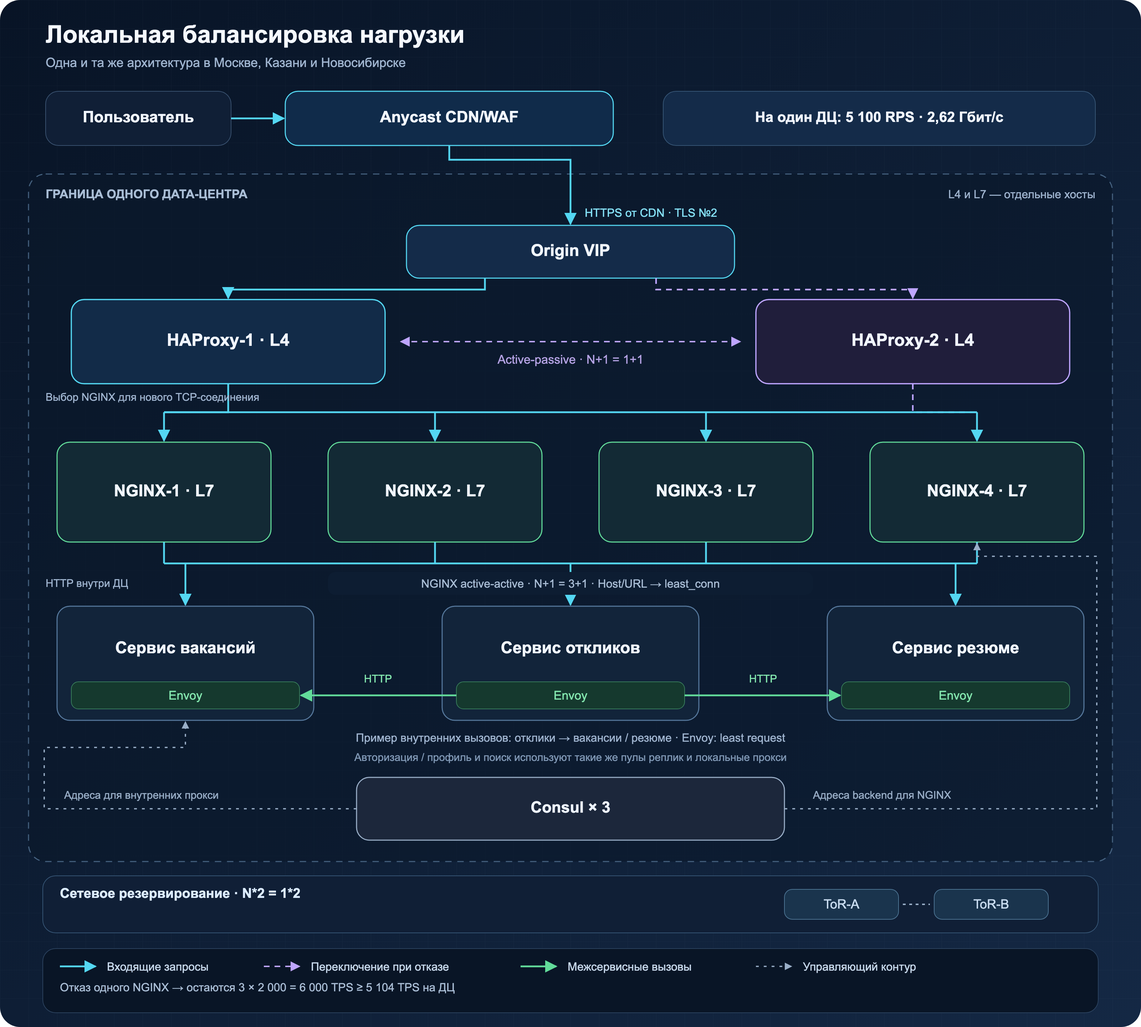
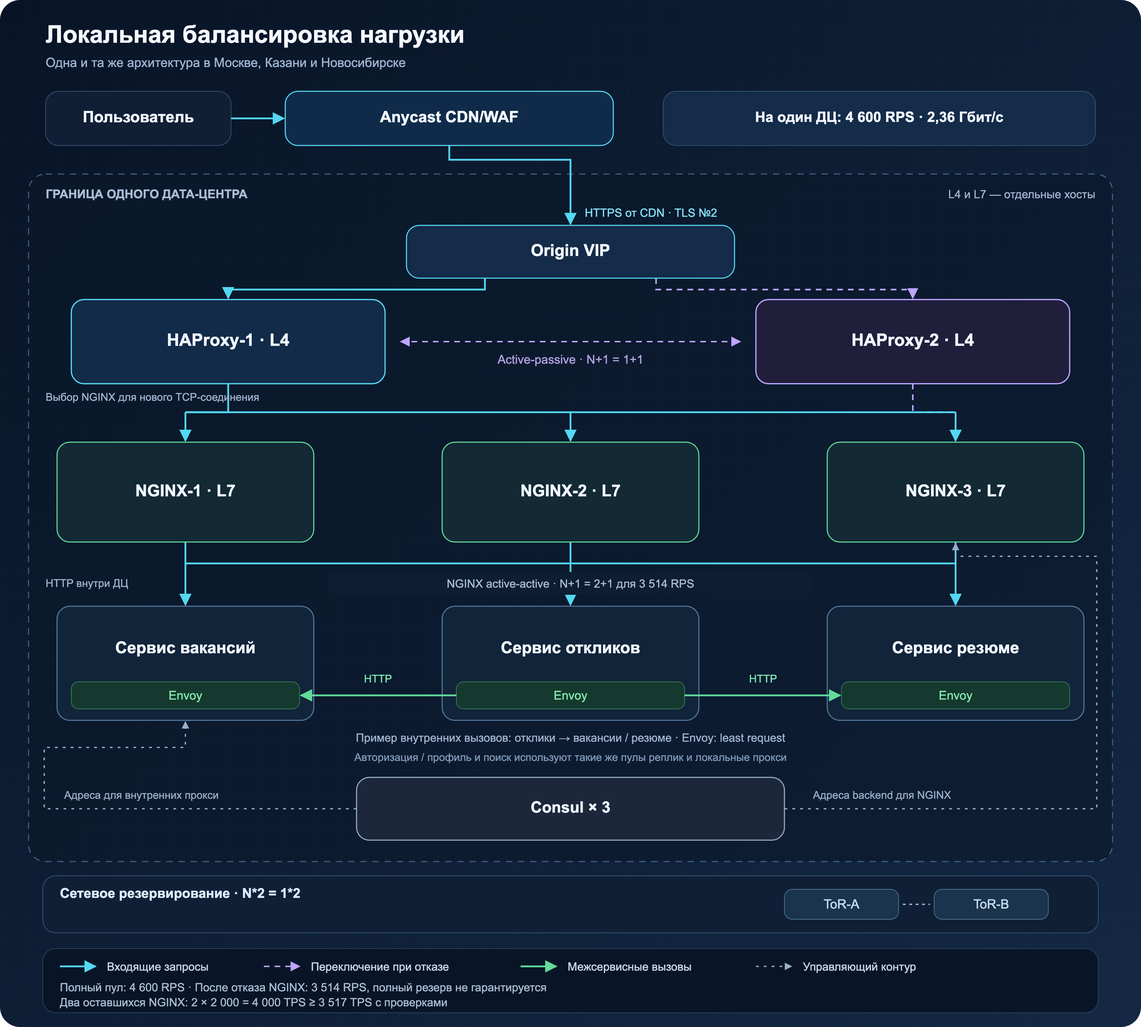
fix

diff --git a/README.md b/README.md
@@ -307,16 +307,16 @@ RPS каждого оставшегося ДЦ = расчётный RPS пико
 |---|---:|---:|---:|---:|---:|
 | Среднесуточный RPS | 1 463,20 | 497,49 | 482,85 | 482,85 | 731,60 |
 | Расчётный RPS пикового часа | 7 028 | 2 389,52 | 2 319,24 | 2 319,24 | 3 514 |
-| Целевая мощность по запросам, RPS | 15 300 | 5 100 | 5 100 | 5 100 | 5 100 |
+| Целевая мощность по запросам, RPS | 13 800 | 4 600 | 4 600 | 4 600 | 4 600 |
 | Пропускная способность пикового часа с запасом | 3,60 Гбит/с | 1,23 Гбит/с | 1,19 Гбит/с | 1,19 Гбит/с | 1,80 Гбит/с |
 
-Каждый ДЦ должен выдерживать минимум 50% суммарной расчётной нагрузки: `7 028 × 0,5 = 3 514 RPS`. Сверх этой аварийной нагрузки принят проектный резерв не менее `1 500 RPS` на площадку для отклонений от расчётной модели и кратковременных всплесков. Минимальное требование с резервом составляет `3 514 + 1 500 = 5 014 RPS`; оно округляется вверх до ближайшей сотни: `5 100 RPS` на ДЦ. Это совокупная целевая мощность backend-площадки, а не производительность одного сервера. При отказе одного ДЦ две оставшиеся площадки имеют суммарную целевую мощность `5 100 × 2 = 10 200 RPS`, что выше расчётных `7 028 RPS`.
+Каждый ДЦ должен выдерживать минимум 50% суммарной расчётной нагрузки: `7 028 × 0,5 = 3 514 RPS`. Сверх этой аварийной нагрузки принят проектный резерв не менее `1 000 RPS` на площадку для отклонений от расчётной модели и кратковременных всплесков. Минимальное требование с резервом составляет `3 514 + 1 000 = 4 514 RPS`; оно округляется вверх до ближайшей сотни: `4 600 RPS` на ДЦ. Это совокупная целевая мощность backend-площадки, а не производительность одного сервера. При отказе одного ДЦ две оставшиеся площадки с исправными локальными балансировщиками имеют суммарную целевую мощность `4 600 × 2 = 9 200 RPS`, что выше расчётных `7 028 RPS`.
 
-Отношение расчётной нагрузки пикового часа к целевой мощности составляет `2 389,52 / 5 100 ≈ 46,9%` для Москвы и `2 319,24 / 5 100 ≈ 45,5%` для Казани и Новосибирска. При отказе одной площадки оно возрастает до `3 514 / 5 100 ≈ 68,9%`. Фактический проектный резерв после округления на каждой оставшейся площадке составляет `5 100 − 3 514 = 1 586 RPS`, или около 45,1% сверх её расчётной аварийной нагрузки. Свободная доля целевой мощности в аварийном режиме равна `1 586 / 5 100 ≈ 31,1%`. Эти проценты характеризуют долю целевой пропускной способности по запросам, а не измеренную загрузку CPU.
+Отношение расчётной нагрузки пикового часа к целевой мощности составляет `2 389,52 / 4 600 ≈ 51,9%` для Москвы и `2 319,24 / 4 600 ≈ 50,4%` для Казани и Новосибирска. При отказе одной площадки оно возрастает до `3 514 / 4 600 ≈ 76,4%`. Фактический проектный резерв после округления на каждой оставшейся площадке составляет `4 600 − 3 514 = 1 086 RPS`, или около 30,9% сверх её расчётной аварийной нагрузки. Свободная доля целевой мощности в аварийном режиме равна `1 086 / 4 600 ≈ 23,6%`. Эти проценты характеризуют долю целевой пропускной способности по запросам, а не измеренную загрузку CPU.
 
-Резервирование N+1 обеспечивает вместимость для выбранного часового сценария при потере одного ДЦ, а дополнительные `1 586 RPS` на оставшуюся площадку задают запас поверх этой нагрузки. Размер запаса является проектным решением и не доказывает величину реального кратковременного пика: длительность и характер всплесков пока не измерены. Целевую производительность `5 100 RPS` необходимо подтвердить нагрузочными тестами с расчётной смесью операций и допустимыми задержками и частотой ошибок, включая работу после отказа одной площадки.
+Резервирование N+1 на уровне ДЦ обеспечивает вместимость для выбранного часового сценария при потере одной площадки, а дополнительные `1 086 RPS` на оставшийся ДЦ задают запас поверх этой нагрузки. Размер запаса является проектным решением и не доказывает величину реального кратковременного пика: длительность и характер всплесков пока не измерены. Целевую производительность `4 600 RPS` необходимо подтвердить нагрузочными тестами с расчётной смесью операций и допустимыми задержками и частотой ошибок, включая работу после отказа одной площадки. При дополнительном отказе одного локального NGINX сохраняется обслуживание расчётных `3 514 RPS`, но полный дополнительный резерв не гарантируется; условия локального резервирования описаны в разделе 4.
 
-При отказе одного ДЦ каждой оставшейся площадке требуется не менее `3,60 × 0,5 = 1,80 Гбит/с` на границе backend API для расчётных `3 514 RPS`. Чтобы канал позволял использовать всю целевую мощность `5 100 RPS` при той же смеси операций и размеров обмена, требование масштабируется пропорционально: `1,80 × (5 100 / 3 514) ≈ 2,612 Гбит/с`, с округлением вверх до `2,62 Гбит/с` на ДЦ. В этой оценке уже сохранён сетевой коэффициент запаса 1,3 из раздела 2; повторно он не применяется. Физические каналы должны дополнительно учитывать межсервисный трафик, репликацию и резервное копирование. Увеличение целевой мощности не меняет прогноз количества операций: расчётный RPS всей системы остаётся `7 028`, а проверка мощности `5 100 RPS` на ДЦ выполняется с новыми размерами запросов и ответов из раздела 2.
+При отказе одного ДЦ каждой оставшейся площадке требуется не менее `3,60 × 0,5 = 1,80 Гбит/с` на границе backend API для расчётных `3 514 RPS`. Чтобы канал позволял использовать всю целевую мощность `4 600 RPS` при той же смеси операций и размеров обмена, требование масштабируется пропорционально: `1,80 × (4 600 / 3 514) ≈ 2,356 Гбит/с`, с округлением вверх до `2,36 Гбит/с` на ДЦ. В этой оценке уже сохранён сетевой коэффициент запаса 1,3 из раздела 2; повторно он не применяется. Физические каналы должны дополнительно учитывать межсервисный трафик, репликацию и резервное копирование. Изменение целевой мощности не меняет прогноз количества операций: расчётный RPS всей системы остаётся `7 028`, а проверка мощности `4 600 RPS` на ДЦ выполняется с размерами запросов и ответов из раздела 2.
 
 ### 3.5. Механизмы балансировки и аварийного переключения
 
@@ -348,9 +348,10 @@ BGP Anycast используется только для authoritative DNS и п
 - географическая нагрузка оценивается через распределение активных вакансий и резюме hh.ru;
 - структура запросов пользователей считается одинаковой во всех регионах;
 - все три ДЦ имеют одинаковую вычислительную конфигурацию;
-- целевая мощность каждого ДЦ — 5 100 RPS, включая резерв не менее 1 500 RPS сверх расчётной нагрузки после отказа соседней площадки;
+- целевая мощность каждого ДЦ при исправных локальных балансировщиках — 4 600 RPS, включая резерв не менее 1 000 RPS сверх расчётной нагрузки после отказа соседней площадки;
 - в наиболее загруженный час поступает 20% суточного объёма каждого типа операций; это проектный сценарий, а не измеренная статистика;
 - штатная схема проектируется на потерю одного ДЦ без ограничения функциональности в пределах расчётной нагрузки пикового часа; целевая производительность проверяется нагрузочными тестами;
+- при сочетании отказа одного ДЦ и одного NGINX на оставшейся площадке сохраняются расчётные 3 514 RPS на этой площадке, но полный дополнительный резерв не гарантируется;
 - потеря двух ДЦ считается аварийным режимом, в котором допускается ограничение тяжёлых операций;
 - распределение аудитории и интенсивность запросов считаются стабильными на горизонте расчёта.
 
@@ -358,7 +359,7 @@ BGP Anycast используется только для authoritative DNS и п
 
 ### 4.1. Схема и уровни балансировки
 
-Во всех трёх ДЦ используется одинаковая локальная схема. Она рассчитана на целевую мощность одной площадки `5 100 RPS` и `2,62 Гбит/с` на границе backend API из раздела 3, включая резерв сверх нагрузки после отказа соседнего ДЦ.
+Во всех трёх ДЦ используется одинаковая локальная схема. При всех исправных локальных балансировщиках она рассчитана на целевую мощность одной площадки `4 600 RPS` и `2,36 Гбит/с` на границе backend API из раздела 3, включая резерв сверх нагрузки после отказа соседнего ДЦ. При дополнительном отказе одного NGINX сохраняется обслуживание расчётных `3 514 RPS`, но не всей целевой мощности с резервом.
 
 ![Схема локальной балансировки входящих и межсервисных запросов](docs/local-balancing.svg)
 
@@ -367,12 +368,12 @@ BGP Anycast используется только для authoritative DNS и п
 |---|---|---|---|
 | Глобальный L7 | Внешний CDN/WAF, GeoIP, задержка и веса | Выбор ДЦ и защита публичного входа | Распределённая инфраструктура провайдера; описана в разделе 3 |
 | Локальный L4 | HAProxy в TCP-режиме, round robin | Распределение новых TCP-соединений между NGINX | `N+1 = 1+1 = 2`, active-passive, один VIP |
-| Локальный L7 | NGINX, маршрутизация по Host/URL, least connections внутри пула сервиса | Завершение origin-TLS и распределение HTTP-запросов | `N+1 = 3+1 = 4`, все четыре работают active-active |
+| Локальный L7 | NGINX, маршрутизация по Host/URL, least connections внутри пула сервиса | Завершение origin-TLS и распределение HTTP-запросов | Три узла active-active; `N+1 = 2+1` для расчётных 3 514 RPS, полный резерв после отказа узла не гарантируется |
 | Межсервисный L7 | Envoy рядом с каждым экземпляром приложения, least request | Выбор экземпляра сервиса-получателя для каждого HTTP-запроса | Нет общего сервера балансировки; прокси резервируется вместе с приложением по `M_i+1` |
 | Обнаружение сервисов | Consul, локальный каталог здоровых экземпляров | Обновление адресов backend и внутренних прокси | Три серверных узла, кворум 2/3, выдерживается отказ одного узла |
 | Сетевой доступ | Два ToR-коммутатора и два независимых подключения | Сохранение связности при отказе порта или коммутатора | Дублирование `N*2 = 1*2 = 2`; один путь должен выдерживать всю нагрузку |
 
-`N` — минимальное число балансировщиков для целевой нагрузки, `N+1` — один дополнительный экземпляр на отказ. При полном дублировании `N*2` создаются две группы, каждая рассчитана на всю нагрузку. Для NGINX выбрано `N+1`: при `N=3` нужны четыре узла, а полное дублирование потребовало бы шесть. Все четыре NGINX участвуют в работе; дополнительный узел не простаивает.
+`N` — минимальное число балансировщиков для нагрузки, которую требуется сохранить после отказа, `N+1` — один дополнительный экземпляр на отказ. При полном дублировании `N*2` создаются две группы, каждая рассчитана на сохраняемую нагрузку. Для NGINX выбрано `N+1 = 2+1 = 3` относительно расчётных `3 514 RPS`; полное дублирование двухузловой группы потребовало бы четыре узла. Все три NGINX участвуют в работе и вместе обеспечивают цель `4 600 RPS`. Резервирование полной цели `4 600 RPS` по N+1 потребовало бы четыре NGINX; от этой более сильной гарантии отказались ради сокращения выделенных ресурсов.
 
 L4 и L7 размещаются на разных хостах, экземпляры одного пула — также на разных хостах. Keepalived переносит VIP между двумя L4-узлами при отказе владельца адреса [[13]](#source13). Для этого предусматривается общая origin-подсеть внутри ДЦ и поддержка VRRP сетевой инфраструктурой. VIP является unicast-адресом отдельной площадки, а не общей Anycast-подсетью трёх ДЦ.
 
@@ -408,37 +409,47 @@ RPS измеряет количество HTTP-запросов, а HTTPS CPS / 
 | Обработка HTTPS-запросов | 20 000 RPS | `38 900 × 0,60 = 23 340`, округление вниз |
 | Пропускная способность API | 5 Гбит/с | `min(8,64 × 0,60; 10 × 0,60) = 5,184`, округление вниз |
 
-Лимит 5 Гбит/с относится к потоку запросов и ответов через прокси, а не к сумме паспортных скоростей двух портов. Два подключения обеспечивают резервирование: после отказа одного пути остаётся 10GbE. Каждый пакет проксируется на двух участках — входном и выходном, поэтому сетевой стек обрабатывает примерно удвоенный объём, но для full-duplex порта при этой модели приём и передача по отдельности ограничиваются потоком API. Для целевых `2,62 Гбит/с` это до `2,62 Гбит/с` в каждом направлении, или около `5,24 Гбит/с` суммарного RX+TX. Нельзя считать два 10GbE-порта обязательными 20 Гбит/с доступной мощности после отказа.
+Лимит 5 Гбит/с относится к потоку запросов и ответов через прокси, а не к сумме паспортных скоростей двух портов. Два подключения обеспечивают резервирование: после отказа одного пути остаётся 10GbE. Каждый пакет проксируется на двух участках — входном и выходном, поэтому сетевой стек обрабатывает примерно удвоенный объём, но для full-duplex порта при этой модели приём и передача по отдельности ограничиваются потоком API. Для целевых `2,36 Гбит/с` это до `2,36 Гбит/с` в каждом направлении, или около `4,72 Гбит/с` суммарного RX+TX. Нельзя считать два 10GbE-порта обязательными 20 Гбит/с доступной мощности после отказа.
 
-Если среднее число запросов на одно origin-соединение равно `q`, то `TPS_origin = RPS_ДЦ / q`. Для целевых `5 100 RPS` сценарии дают:
+Если среднее число запросов на одно origin-соединение равно `q`, то `TPS_origin = RPS_ДЦ / q`. Для целевых `4 600 RPS` сценарии дают:
 
 | Запросов на origin-соединение, q | Новых TLS-соединений в секунду без проверок |
 |---|---:|
-| 1 — без переиспользования, выбран для sizing | 5 100 |
-| 10 | 510 |
-| 100 | 51 |
+| 1 — без переиспользования, выбран для sizing | 4 600 |
+| 10 | 460 |
+| 100 | 46 |
 
-Для sizing принято `q=1`: каждый запрос создаёт новое соединение с полной TLS-терминацией, без выгоды от keepalive или возобновления сессии. Это консервативный сценарий, а не прогноз обычной работы CDN. Оба HAProxy проверяют каждый из четырёх NGINX по HTTPS раз в две секунды. При новом соединении на каждую проверку они добавляют `2 × 4 / 2 = 4 TPS` на ДЦ. Итого принято `5 100 + 4 = 5 104 TPS`; проверки внешнего провайдера и всплески реконнектов должны укладываться в оставшийся резерв и проверяются тестированием.
+Для sizing принято `q=1`: каждый запрос создаёт новое соединение с полной TLS-терминацией, без выгоды от keepalive или возобновления сессии. Это консервативный сценарий, а не прогноз обычной работы CDN. Оба HAProxy проверяют каждый из трёх NGINX по HTTPS раз в две секунды. При новом соединении на каждую проверку они добавляют `2 × 3 / 2 = 3 TPS` на ДЦ. Для полной цели принято `4 600 + 3 = 4 603 TPS`, для расчётной аварийной нагрузки — `3 514 + 3 = 3 517 TPS`. Добавка 3 TPS используется как верхняя оценка также при отказе одного NGINX. Проверки внешнего провайдера и всплески реконнектов должны укладываться в оставшийся резерв и проверяются тестированием.
+
+Количество NGINX выбирается по двум условиям: полный пул обеспечивает цель `4 600 RPS`, а после потери одного узла оставшиеся обеспечивают расчётные `3 514 RPS` и `1,80 Гбит/с` после отказа соседнего ДЦ:
 
 ```text
-N_TLS = ceil(5 104 / 2 000) = 3
-N_RPS = ceil(5 100 / 20 000) = 1
-N_NET = ceil(2,62 / 5) = 1
-N = max(N_TLS, N_RPS, N_NET) = 3
-NGINX на ДЦ = N+1 = 3+1 = 4
+Для полной целевой мощности, без локального отказа:
+N_TARGET_TLS = ceil(4 603 / 2 000) = 3
+N_TARGET_RPS = ceil(4 600 / 20 000) = 1
+N_TARGET_NET = ceil(2,36 / 5) = 1
+N_TARGET = max(N_TARGET_TLS, N_TARGET_RPS, N_TARGET_NET) = 3
+
+Для расчётной аварийной нагрузки, сохраняемой после локального отказа:
+N_BASE_TLS = ceil(3 517 / 2 000) = 2
+N_BASE_RPS = ceil(3 514 / 20 000) = 1
+N_BASE_NET = ceil(1,80 / 5) = 1
+N_BASE = max(N_BASE_TLS, N_BASE_RPS, N_BASE_NET) = 2
+
+NGINX на ДЦ = max(N_TARGET, N_BASE + 1) = max(3, 2+1) = 3
 ```
 
-В этой оценке ограничителем оказывается TLS-терминация. После отказа одного NGINX три оставшихся обеспечивают предварительную мощность `3 × 2 000 = 6 000 TPS`, выше целевых `5 104 TPS`. Результаты RPS, TPS и сети получены отдельными тестами и не гарантируют одновременную достижимость этих пределов: окончательное число узлов подтверждается совместным тестом новых TLS-соединений и обмена реальными ответами из раздела 2.
+В этой оценке ограничителем оказывается TLS-терминация. Три NGINX обеспечивают предварительную мощность `3 × 2 000 = 6 000 TPS`, выше целевых `4 603 TPS`. После отказа одного NGINX два оставшихся обеспечивают `2 × 2 000 = 4 000 TPS`, выше расчётных `3 517 TPS`, но ниже полной цели `4 603 TPS`. Таким образом, N+1 сохраняет расчётную аварийную нагрузку, а не весь дополнительный резерв. Результаты RPS, TPS и сети получены отдельными тестами и не гарантируют одновременную достижимость этих пределов: окончательное число узлов подтверждается совместным тестом новых TLS-соединений и обмена реальными ответами из раздела 2.
 
 ### 4.4. Расчёт L4 и итоговое количество
 
 HAProxy не выполняет TLS-терминацию пользовательского потока. Для него проверяются сетевой поток и создание TCP-соединений. На один L4-хост предварительно выделяются четыре CPU-ядра, 8 Гбайт RAM и два 10GbE-подключения. В проекте задаётся требование к проверяемой производительности не менее `20 000` входящих TCP-соединений/с; это требование для нагрузочного теста, а не заимствованный результат NGINX.
 
-По сети используется не более 60% одного сохранившегося 10GbE-пути: `10 × 0,60 = 6 Гбит/с` в каждом направлении. Для целевого потока `2,62 Гбит/с` один L4-хост достаточен по принятой сетевой модели. Все соединения и весь поток ДЦ должны помещаться на одном активном HAProxy:
+По сети используется не более 60% одного сохранившегося 10GbE-пути: `10 × 0,60 = 6 Гбит/с` в каждом направлении. Для целевого потока `2,36 Гбит/с` один L4-хост достаточен по принятой сетевой модели. Все соединения и весь поток ДЦ должны помещаться на одном активном HAProxy:
 
 ```text
-N_L4_NET = ceil(2,62 / 6) = 1
-N_L4_CPS = ceil(5 100 / 20 000) = 1
+N_L4_NET = ceil(2,36 / 6) = 1
+N_L4_CPS = ceil(4 600 / 20 000) = 1
 N_L4 = max(N_L4_NET, N_L4_CPS) = 1
 HAProxy на ДЦ = N_L4+1 = 1+1 = 2
 ```
@@ -446,22 +457,22 @@ HAProxy на ДЦ = N_L4+1 = 1+1 = 2
 | Компонент | На один ДЦ | На три ДЦ | Схема |
 |---|---:|---:|---|
 | HAProxy + Keepalived | 2 отдельных хоста | 6 хостов | Active-passive, один VIP |
-| NGINX | 4 отдельных хоста | 12 хостов | Active-active, `N+1 = 3+1` |
-| **Выделенные серверы входной балансировки** | **6** | **18** | **L4 и L7 резервируются независимо** |
+| NGINX | 3 отдельных хоста | 9 хостов | Active-active; `N+1 = 2+1` для расчётных 3 514 RPS |
+| **Выделенные серверы входной балансировки** | **5** | **15** | **L4 и L7 резервируются независимо** |
 | Consul | 3 серверных узла | 9 узлов | Кворум 2/3; это управляющий контур, не входные балансировщики |
 | Envoy | По одному на экземпляр backend | По числу экземпляров backend | Локальные прокси; отдельные серверы не выделяются |
 
-Фактический RPS ДЦ и целевая мощность различаются. Все балансировщики рассчитываются на `5 100 RPS` даже при штатной нагрузке около `2 320–2 390 RPS`, чтобы сохранить резерв раздела 3:
+Фактический RPS ДЦ и целевая мощность различаются. Исправный входной пул рассчитывается на `4 600 RPS` даже при штатной нагрузке около `2 320–2 390 RPS`, чтобы сохранить резерв раздела 3. После отказа одного NGINX гарантируемая расчётом нагрузка ограничена `3 514 RPS`; полный дополнительный резерв в этом режиме не гарантируется:
 
 | Состояние одного ДЦ | Внешний RPS площадки | Работающих NGINX | RPS на NGINX при равномерном потоке |
 |---|---:|---:|---:|
-| Москва, штатный пиковый час | 2 389,52 | 4 | 597,38 |
-| Казань или Новосибирск, штатный пиковый час | 2 319,24 | 4 | 579,81 |
-| Отказ соседнего ДЦ | 3 514 | 4 | 878,50 |
-| Отказ соседнего ДЦ и одного локального NGINX | 3 514 | 3 | 1 171,33 |
-| Полная целевая нагрузка и отказ одного NGINX | 5 100 | 3 | 1 700,00 |
+| Москва, штатный пиковый час | 2 389,52 | 3 | 796,51 |
+| Казань или Новосибирск, штатный пиковый час | 2 319,24 | 3 | 773,08 |
+| Отказ соседнего ДЦ | 3 514 | 3 | 1 171,33 |
+| Полная целевая нагрузка, все локальные NGINX работают | 4 600 | 3 | 1 533,33 |
+| Отказ соседнего ДЦ и одного локального NGINX | 3 514 | 2 | 1 757,00 |
 
-Последняя строка соответствует примерно `5 104 / 3 ≈ 1 701,33 TPS` с проверками и `2,62 / 3 ≈ 0,873 Гбит/с` на NGINX. Это ниже предварительных пределов 2 000 TPS и 5 Гбит/с. Распределение в таблице является расчётным приближением: длительные соединения CDN могут давать перекос, который нужно проверять и ограничивать.
+При полной целевой нагрузке на один NGINX приходится около `4 603 / 3 ≈ 1 534,33 TPS` с проверками и `2,36 / 3 ≈ 0,787 Гбит/с`. Последняя строка соответствует верхней оценке `3 517 / 2 = 1 758,50 TPS` с проверками и `1,80 / 2 = 0,90 Гбит/с` на NGINX. Это ниже предварительных пределов 2 000 TPS и 5 Гбит/с. При `q=1` доля принятой безопасной TLS-мощности составляет около 39–40% в штатный пиковый час, 59% после отказа соседнего ДЦ, 77% на полной целевой нагрузке и 88% при сочетании отказов ДЦ и локального NGINX. Это не измеренная загрузка CPU. Распределение является расчётным приближением: длительные соединения CDN могут давать перекос, который нужно проверять и ограничивать.
 
 ### 4.5. Межсервисные запросы
 
@@ -471,7 +482,7 @@ Envoy получает адреса здоровых экземпляров из
 
 У каждого сервиса должно быть `M_i+1` экземпляров на разных хостах, где `M_i` — минимальное число, необходимое для его собственного внутреннего RPS. Минимум два экземпляра устраняют одиночную точку отказа, но сами по себе не доказывают достаточную мощность. Число локальных Envoy равно `sum(M_i+1)` по сервисам ДЦ; их CPU и память включаются в ресурсы backend-хостов. Поэтому выделенного общего пула межсервисных балансировщиков нет. Точное количество backend и Envoy определяется после расчёта внутреннего графа вызовов, а не из таблицы внешнего RPS.
 
-Внутренняя нагрузка может превышать внешнюю: один пользовательский запрос порождает несколько обращений. Для сервиса `i` используется `RPS_i = sum(RPS_внешнего_метода × число вызовов i в этом методе)`, с отдельным учётом кеша, фоновых задач и повторов. Нельзя автоматически назначать всем внутренним сервисам внешние `5 100 RPS` или подставлять тесты NGINX в расчёт мощности Envoy.
+Внутренняя нагрузка может превышать внешнюю: один пользовательский запрос порождает несколько обращений. Для сервиса `i` используется `RPS_i = sum(RPS_внешнего_метода × число вызовов i в этом методе)`, с отдельным учётом кеша, фоновых задач и повторов. Нельзя автоматически назначать всем внутренним сервисам внешние `4 600 RPS` или подставлять тесты NGINX в расчёт мощности Envoy.
 
 При деградации экземпляра используется исключение из списка готовых узлов и локальное outlier detection в Envoy [[15]](#source15). Повторы ограничиваются одним дополнительным вызовом в пределах исходного deadline и разрешаются только для безопасных операций или записи с idempotency key. Повторы не включаются бесконечно: при исчерпании лимитов применяется отказ или ограничение нагрузки.
 
@@ -482,19 +493,19 @@ Consul развёрнут в трёх экземплярах на ДЦ: квор
 | Отказ | Механизм | Условие сохранения мощности |
 |---|---|---|
 | Один L4-хост или процесс HAProxy | Keepalived проверяет процесс и связность, VIP переносится на резервный узел | Каждый L4 рассчитан на полный поток ДЦ |
-| Один NGINX | HAProxy исключает узел из пула по HTTPS readiness checks [[12]](#source12) | Три оставшихся NGINX выдерживают 5 100 RPS и 5 104 TPS в принятой модели |
+| Один NGINX, в том числе при отказе соседнего ДЦ | HAProxy исключает узел из пула по HTTPS readiness checks [[12]](#source12) | Два оставшихся NGINX выдерживают расчётные 3 514 RPS и до 3 517 TPS с проверками; полная цель 4 600 RPS не гарантируется |
 | Экземпляр приложения или его Envoy | Каталог исключает экземпляр, вызывающие прокси используют другие реплики | `M_i` оставшихся реплик выдерживают нагрузку соответствующего сервиса |
 | Один Consul | Два оставшихся узла сохраняют кворум | Адреса продолжают обновляться |
 | Порт или один ToR | Второй независимый сетевой путь | Один путь выдерживает полный поток своего хоста |
-| Весь ДЦ | CDN/WAF исключает origin площадки, глобальные веса переходят к 50/50 | Каждая оставшаяся площадка выдерживает 3 514 RPS и сохраняет резерв 1 586 RPS |
+| Весь ДЦ | CDN/WAF исключает origin площадки, глобальные веса переходят к 50/50 | Каждая оставшаяся площадка выдерживает 3 514 RPS; при исправных локальных балансировщиках сохраняет резерв 1 086 RPS |
 
 Для HAProxy приняты проверки NGINX каждые 2 секунды, исключение после трёх неудач и возврат после трёх успешных проверок. Проверяется HTTPS `/health/ready`, а не только открытый TCP-порт; длительность обнаружения зависит также от таймаута проверки. Backend отмечается готовым только после инициализации необходимых зависимостей. Для NGINX используются пассивные `max_fails`/`fail_timeout` и обновление upstream из каталога; встроенные активные health checks коммерческого NGINX Plus не предполагаются [[11]](#source11).
 
 Keepalived контролирует процесс HAProxy и доступность сетевого пути; VRRP heartbeat не должен проходить через единственный незащищённый линк. У переноса VIP есть время сходимости. Существующие TCP-соединения отказавшего L4 или L7 могут оборваться и потребовать повторного подключения — резервирование сохраняет возможность обслуживать трафик, но не гарантирует сохранение каждого соединения.
 
-При плановом обновлении узел сначала исключается из новых назначений, затем завершаются активные запросы. Обновления выполняются по одному экземпляру. `N+1` резервирует один локальный отказ; одновременный вывод одного узла на обслуживание и отказ второго NGINX при полной целевой нагрузке этой схемой не гарантируются. Отказ стойки с несколькими экземплярами также требует отдельной модели отказов. При восстановлении трафик возвращается постепенно, с проверкой ошибок и задержек.
+При плановом обновлении узел сначала исключается из новых назначений, затем завершаются активные запросы. Обновления выполняются по одному экземпляру. Для NGINX `N+1 = 2+1` резервирует один локальный отказ при сохраняемой нагрузке `3 514 RPS`, а не при полной цели `4 600 RPS`. После вывода одного NGINX на обслуживание остаётся тот же двухузловой режим без гарантии полного дополнительного резерва; одновременный отказ второго NGINX при расчётной аварийной нагрузке этой схемой не гарантируется. Отказ стойки с несколькими экземплярами также требует отдельной модели отказов. При восстановлении трафик возвращается постепенно, с проверкой ошибок и задержек.
 
-До выбора окончательного оборудования необходим совместный нагрузочный тест: 5 100 RPS на ДЦ с размерами ответов из раздела 2, сценарий до 5 104 новых TLS-соединений/с, отказ одного NGINX и отдельно одного HAProxy, смена VIP и реконнекты. Проверяются TLS TPS, RPS, RX/TX, CPU, память, число открытых соединений, задержки и частота ошибок. Исторические тесты NGINX задают ориентир, а 60%-е ограничение и безопасные пределы являются проектными допущениями. Если совместный тест не подтверждает пределы, число узлов или их конфигурация увеличиваются.
+До выбора окончательного оборудования необходим совместный нагрузочный тест с размерами ответов из раздела 2. Проверяются полная цель `4 600 RPS`, до `4 603` новых TLS-соединений/с и `2,36 Гбит/с` при трёх исправных NGINX, а также сохранение `3 514 RPS`, до `3 517 TPS` с проверками и `1,80 Гбит/с` после отказа одного ДЦ и одного NGINX на оставшейся площадке. Отдельно проверяются отказ HAProxy при полной цели, смена VIP и реконнекты. Полные `4 600 RPS` после отказа NGINX не входят в гарантию проекта. Контролируются TLS TPS, RPS, RX/TX, CPU, память, число открытых соединений, задержки и частота ошибок. Исторические тесты NGINX задают ориентир, а 60%-е ограничение и безопасные пределы являются проектными допущениями. Если совместный тест не подтверждает пределы, число узлов или их конфигурация увеличиваются.
 
 ## Список источников
 
